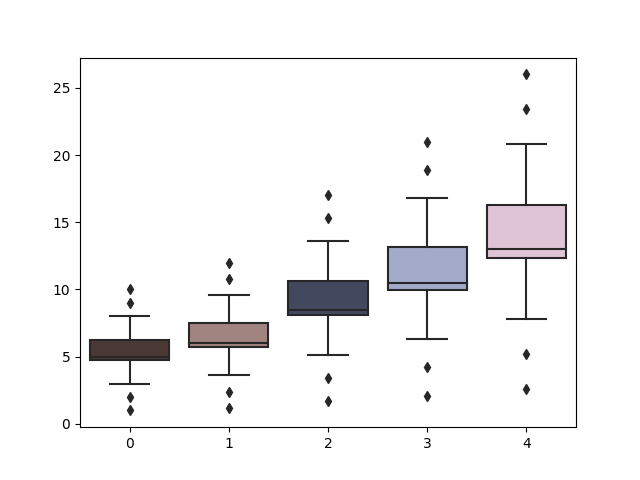
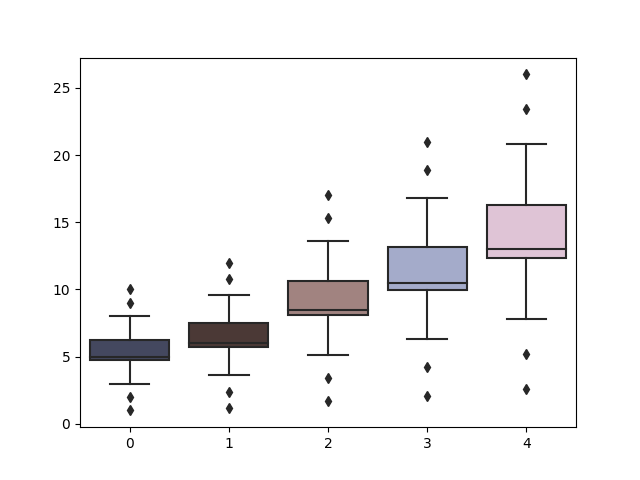
new colors!!

Changed region(s): [[0.125, 0.6562, 0.4375, 0.75], [0.4375, 0.5625, 0.5938, 0.6562]]

diff --git a/snowpal/snow_pal.py b/snowpal/snow_pal.py
@@ -1,28 +1,38 @@
 
-def palettes(palette_str):
+def palettes(palette_str, reverse=False):
     '''
     INPUT = palette_str
 
     Options include: 'tetons-at-twilight', 'sunny-drive', 'construction', 'foggy-ldp', 'dusty1', 'snow-school',
-    'isothermal'
+    'isothermal', 'greenbelt', 'bogus-blue', 'wildcats', 'xyz', 'ponderosa1'
 
-
+    Optional argument is reverse (Bool). User can select if they would like to reverse the palatte. Default is False.
 
     '''
 
-    all_pals = {'tetons-at-twilight': ['#4f3632','#a67f7a', '#404563', '#9ea7d0', '#e3c0d8'], 
+    all_pals = {'tetons-at-twilight': ['#404563','#4f3632','#a67f7a','#9ea7d0', '#e3c0d8'], 
                 'sunny-drive': ['#599BFF','#FFD400','#7C8485', '#2A5315', '#C6D1D8'], 
-                'construction': ['#9cb96b','#5c5d5d','#15161a', '#9d989f', '#916573'], 
-                'foggy-ldp': ['#5c6c69','#858485','#85735c','#494038', '#845042'], 
+                'construction': ['#9cb96b','#916573','#9d989f','#5c5d5d','#15161a'], 
+                'foggy-ldp': ['#5c6c69','#858485','#85735c','#845042','#494038'], 
                 'dusty1': ['#d2dadd', '#aba7a4','#a59189','#736e60', '#403d37'], 
                 'snow-school': ['#065ead','#ee8330','#986166', '#383845','#d7b329'], 
-                'isothermal': ['#358fdb','#93a8be','#cad3db','#6b8c9d','#626663'],  
+                'isothermal': ['#358fdb','#6b8c9d','#93a8be','#cad3db','#626663'],  
+                'greenbelt': ['#efd2be','#ac966d','#5f4526','#939391','#14191c'], 
+                'bogus-blue': ['#214872','#1a78c7','#6284a2','#8ea9c0','#d3d0c0'],
+                'wildcats': ['#d6a316','#945c14','#07568f','#7396b0','#2d3039'],
+                'xyz': ['#8fa694','#354f46','#385167','#657376','#a3abad'],
+                'ponderosa1': ['#beb94d','#828155','#4f581d','#30401c','#272b1c'],                  
                 }
 
     try:
         all_pals[palette_str]
     except:
-        print('Must be either "tetons-at-twilight", "sunny-drive", "construction", "foggy-ldp", "dusty1",\
-               "snow-school", "isothermal"')
+        print('Must be either "tetons-at-twilight", "sunny-drive", "construction", "foggy-ldp", "dusty1","snow-school", "isothermal", "greenbelt", "bogus-blue", "wildcats", "xyz", "ponderosa1"')
 
-    return all_pals[palette_str]
+    
+    pal = all_pals[palette_str]
+
+    if reverse is True:
+        pal = pal.reverse()
+
+    return pal

diff --git a/README.md b/README.md
@@ -29,3 +29,5 @@ sns.boxplot(
 plt.show()
 ```
 <img src="https://github.com/brentwilder/snow-pal/blob/master/docs/demo.png" width="600">
+
+If you would like to support snow-pal or contribute to the collection you can send me your snow photo at brentwilder@boisestate.edu. Please let me know if you would like your name credited to the photo. Cheers!
